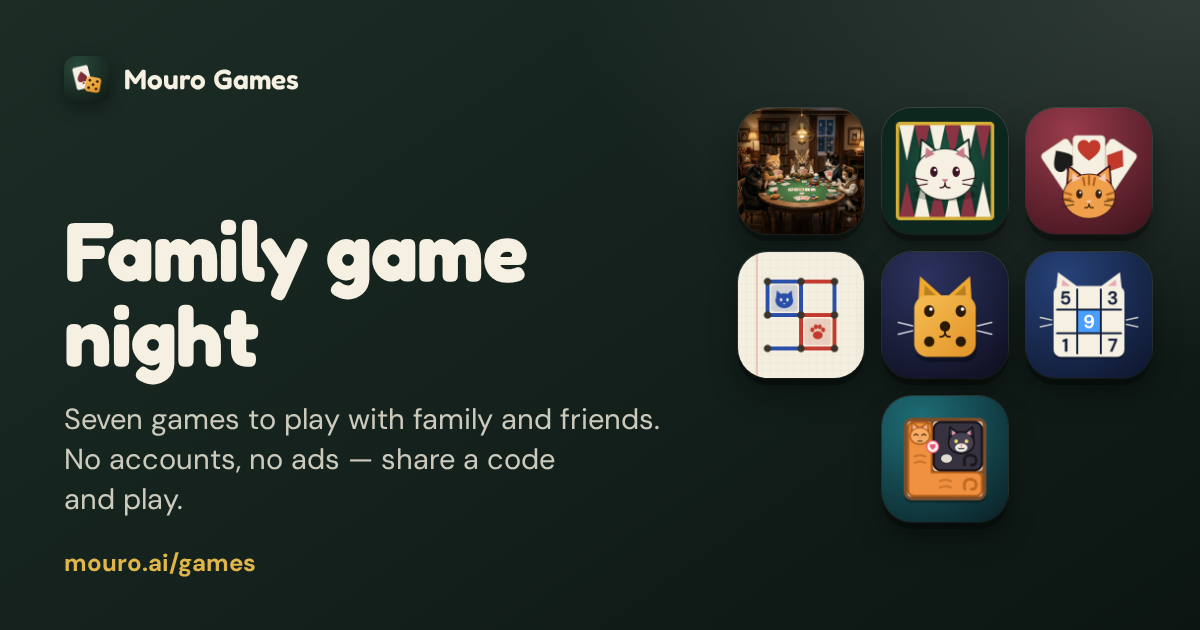
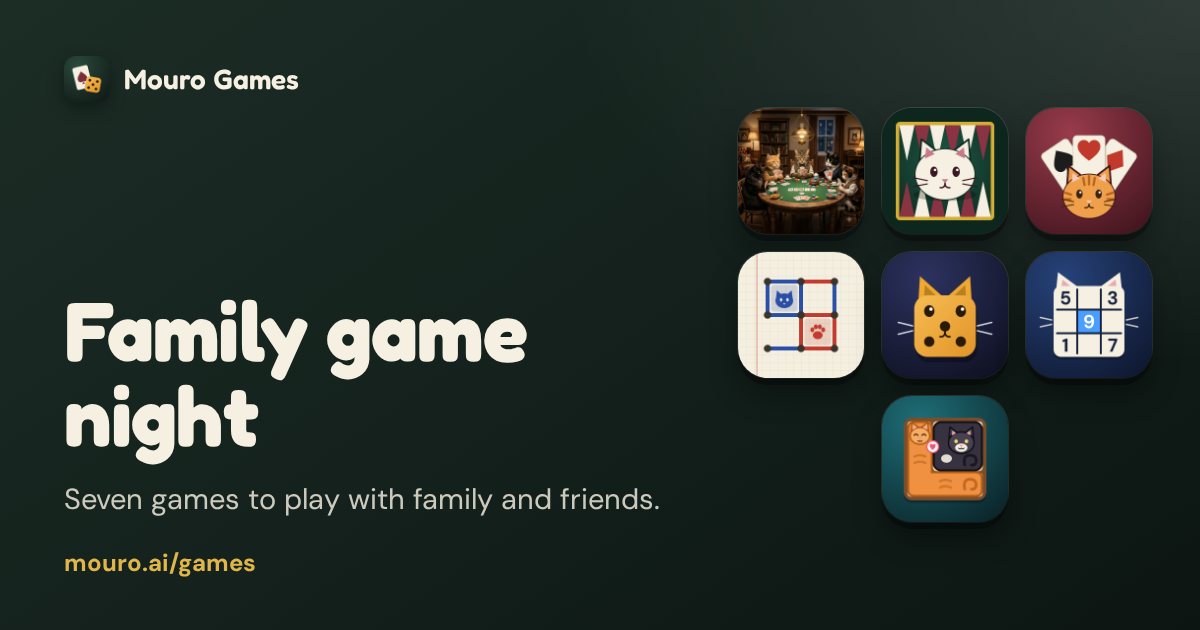
Home: whole card opens its project, previews play on hover; drop the games tagline
- Each work card is one link to its project (stretched title link); links
  in the card text still go to their own pages.
- With a mouse, a card's preview plays when the pointer moves onto it.
  Without hover it keeps looping while on screen.
- Remove 'No accounts, no ads — share a code and play.' from the home
  games band, the games hub intro, its meta descriptions, the manifest and
  the games share card, and 'No accounts · no ads · no tracking' from the
  hub footer (visits are counted now).

Changed region(s): [[0.0308, 0.3317, 0.555, 0.754], [0.0308, 0.7841, 0.555, 0.8143]]

diff --git a/site/games/index.html b/site/games/index.html
@@ -4,9 +4,9 @@
 <meta charset="utf-8">
 <meta name="viewport" content="width=device-width, initial-scale=1, viewport-fit=cover">
 <title>Mouro Games — family game night</title>
-<meta name="description" content="Mahjong, Texas Hold’em, blackjack, backgammon (Tawleh), gin rummy, Yahtzee, Sudoku and Cat Café to play with family and friends, plus road trip games for the car. No accounts, no ads — share a code and play.">
+<meta name="description" content="Mahjong, Texas Hold’em, blackjack, backgammon (Tawleh), gin rummy, Yahtzee, Sudoku and Cat Café to play with family and friends, plus road trip games for the car.">
 <meta property="og:title" content="Mouro Games — family game night">
-<meta property="og:description" content="Backgammon (Tawleh), gin rummy, Yahtzee, Sudoku and Cat Café to play with family and friends, plus road trip games for the car. No accounts, no ads — share a code and play.">
+<meta property="og:description" content="Backgammon (Tawleh), gin rummy, Yahtzee, Sudoku and Cat Café to play with family and friends, plus road trip games for the car.">
 <meta property="og:type" content="website">
 <meta property="og:url" content="https://mouro.ai/games/">
 <meta property="og:image" content="https://mouro.ai/static/share/games.png">
@@ -219,7 +219,7 @@
 
     <section class="intro">
       <h1>Game night, <em>anywhere.</em></h1>
-      <p id="intro-text">Games for family and friends. No accounts, no ads — share a code and play.</p>
+      <p id="intro-text" hidden></p>
       <p class="ios-hint label" id="ios-hint" hidden>Tip: tap Share, then “Add to Home Screen” to install</p>
     </section>
 
@@ -397,7 +397,6 @@
 
   <footer class="foot">
     <span>Made for family game night by <a href="/">Rami Mouro</a></span>
-    <span>No accounts · no ads · no tracking</span>
   </footer>
 </div>
 <script>
@@ -431,7 +430,7 @@
     const tabs = { mobile: document.getElementById("tab-mobile"), road: document.getElementById("tab-road") };
     const panels = { mobile: document.getElementById("panel-mobile"), road: document.getElementById("panel-road") };
     const intro = {
-      mobile: "Games for family and friends. No accounts, no ads — share a code and play.",
+      mobile: "",
       road: "Games for the car. Passengers play on their phones, and Categories can put one phone on the console as a shared screen.",
     };
     function show(which, focus = false) {
@@ -441,7 +440,9 @@
         tabs[k].tabIndex = on ? 0 : -1;
         panels[k].hidden = !on;
       }
-      document.getElementById("intro-text").textContent = intro[which];
+      const introText = document.getElementById("intro-text");
+      introText.textContent = intro[which];
+      introText.hidden = !intro[which];
       if (focus) tabs[which].focus();
     }
     const fromHash = () => show(location.hash === "#road-trip" ? "road" : "mobile");

diff --git a/site/static/js/work-previews.js b/site/static/js/work-previews.js
@@ -1,5 +1,5 @@
-// Plays the small preview drawings on the home page's project cards on a
-// loop while they are on screen. The drawings are
+// Plays the small preview drawings on the home page's project cards: on
+// hover with a mouse, on a loop while on screen without one. The drawings are
 // complete and still without this script or under reduced motion; the CSS
 // animates only inside .preview.play.
 (() => {
@@ -71,6 +71,22 @@
         }, CYCLE);
         return () => { clearInterval(timer); stop(); };
     }
+    // With a mouse, a preview plays each time the pointer moves onto its
+    // card. Without hover (phones, tablets), it loops while on screen.
+    if (matchMedia('(hover: hover)').matches) {
+        previews.forEach((preview) => {
+            const card = preview.closest('.work-item') || preview;
+            let stop = () => {};
+            card.addEventListener('pointerenter', () => {
+                stop();
+                reset(preview);
+                void preview.offsetWidth; // restart the CSS animations
+                stop = play(preview);
+            });
+        });
+        return;
+    }
+
     const seen = new IntersectionObserver((entries) => {
         for (const { target, isIntersecting } of entries) {
             if (isIntersecting && !running.has(target)) {

diff --git a/site/static/css/site.css b/site/static/css/site.css
@@ -2662,3 +2662,37 @@ details.more > summary {
         stroke-dashoffset: -8;
     }
 }
+
+/* ── Whole work card is a link ──────────────────────────────────────────── */
+/* The title link stretches over its card; links in the card text sit above
+   it and still go to their own places. */
+.work-item {
+    position: relative;
+    cursor: pointer;
+}
+
+.work-item h3 a::after {
+    content: "";
+    position: absolute;
+    inset: 0;
+    z-index: 1;
+}
+
+.work-item h3 a:focus-visible {
+    outline: none;
+}
+
+.work-item h3 a:focus-visible::after {
+    outline: 3px solid var(--yellow);
+    outline-offset: 2px;
+}
+
+.work-item p a {
+    position: relative;
+    z-index: 2;
+}
+
+.work-item:hover h3 a {
+    background-size: 100% 100%;
+    color: var(--on-yellow);
+}

diff --git a/site/index.html b/site/index.html
@@ -364,7 +364,7 @@
 <section class="band">
     <div class="band-copy">
         <h2>Off the clock: family game night.</h2>
-        <p>Games I built for family and friends, running on my own server. No accounts, no ads — share a code and play.</p>
+        <p>Games I built for family and friends, running on my own server.</p>
         <a class="button" href="/games/">See all games</a>
     </div>
     <ul class="game-list">
